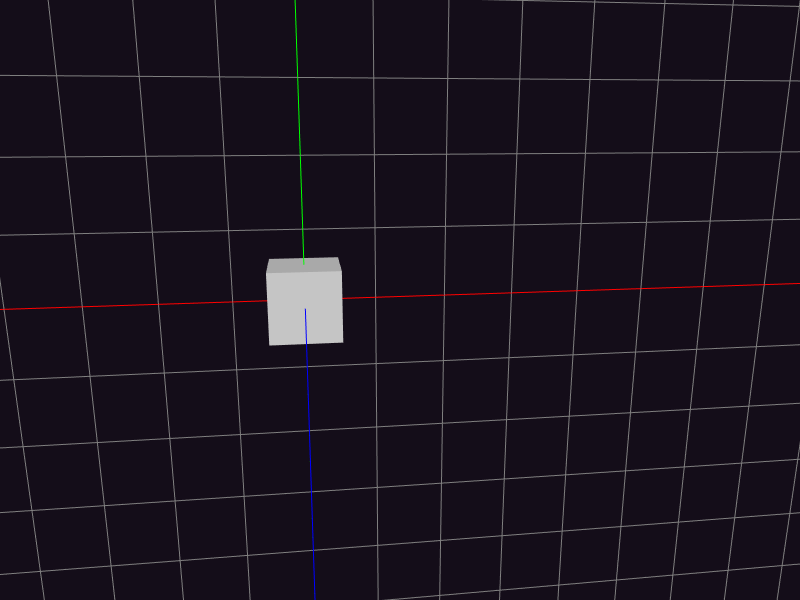
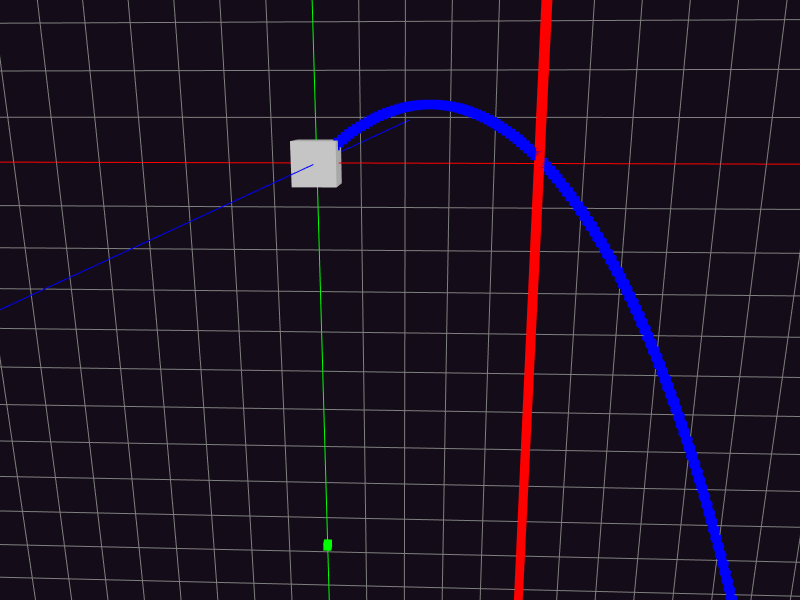
added IsParallelTo & IsPerpendicularTo to Vector2.hpp

Changed region(s): [[0.0, 0.0, 1.0, 1.0], [0.0, 0.0, 0.125, 0.06], [0.7188, 0.18, 0.75, 0.21]]

diff --git a/src/Math/Functions/Function.hpp b/src/Math/Functions/Function.hpp
@@ -2,6 +2,7 @@
 #include "DifferentiationMethod.hpp"
 #include "IntegrationMethod.hpp"
 #include "Math/Common/Comparison.hpp"
+#include "Math/Common/Exponentials.hpp"
 #include "Utilities/Logger.hpp"
 
 namespace N::M
@@ -78,45 +79,6 @@ template <typename Input, typename Output> struct Function
     }
 
     /**
-     * @brief Numerically finds the input x such that f(x) approximately equals y using binary search.
-     * @param y Function value whose corresponding input is sought.
-     * @param domainMin Lower bound of the search domain.
-     * @param domainMax Upper bound of the search domain.
-     * @return An input value whose function value approximately equals y.
-     * @note Requires a scalar-to-scalar function that is monotonic over the
-     * given domain.
-     */
-    float InverseEvaluate(float y, float domainMin, float domainMax) const
-        requires IsScalar<Input> && IsScalar<Output>
-    {
-        float x = 0.0f;
-        while (!NearlyEquals(domainMax, domainMin))
-        {
-            x = (domainMin + domainMax) / 2.0f;
-            const float value = Evaluate(x);
-            if (value < y)
-                domainMin = x;
-            else
-                domainMax = x;
-        }
-        return x;
-    }
-
-    /**
-     * @brief Creates the numerical inverse of a scalar-to-scalar function over the given domain.
-     * @param domainMin Lower bound of the function's domain.
-     * @param domainMax Upper bound of the function's domain.
-     * @return A function representing the numerical inverse.
-     * @note The function must be monotonic over the given domain.
-     */
-    Function<float, float> Inverse(float domainMin, float domainMax) const
-        requires IsScalar<Input> && IsScalar<Output>
-    {
-        return [f = *this, domainMin, domainMax](const float y) -> float
-        { return f.InverseEvaluate(y, domainMin, domainMax); };
-    }
-
-    /**
      * @brief Evaluates the numerical derivative at x.
      * @param x Input value at which to evaluate the derivative.
      * @param dx Step size used for numerical differentiation.
@@ -145,39 +107,6 @@ template <typename Input, typename Output> struct Function
         IntegrationMethod method = IntegrationMethod::Midpoint) const requires IsScalar<Input>
     {
         return Integrate(lowerBound, dx, method)(upperBound);
-    }
-
-    /**
-     * @brief Creates a Taylor polynomial approximation about the point a.
-     * @param terms Number of terms in the Taylor polynomial.
-     * @param a Point about which the polynomial is expanded.
-     * @return A function representing the Taylor polynomial approximation.
-     * @note Only available for functions with a scalar Input type.
-     */
-    Function<float, Output> Taylor(unsigned int terms, float a) const requires IsScalar<Input>
-    {
-        return [terms, a, f = *this](const float x)
-        {
-            Output result{};
-            Function currentFunc = f;
-            for (int n = 0; n < terms; ++n)
-            {
-                result += currentFunc(a) * std::pow(x - a, n) / Factorial(n);
-                currentFunc = currentFunc.Differentiate();
-            }
-            return result;
-        };
-    }
-
-    /**
-     * @brief Creates a Taylor polynomial approximation centered at zero.
-     * @param terms Number of terms in the Taylor polynomial.
-     * @return A function representing the Maclaurin polynomial approximation.
-     * @note Only available for functions with a scalar Input type.
-     */
-    Function<float, Output> Maclaurin(unsigned int terms) const requires IsScalar<Input>
-    {
-        return Taylor(terms, 0.0f);
     }
 
     /**
@@ -217,6 +146,79 @@ template <typename Input, typename Output> struct Function
             }
             return result;
         };
+    }
+
+    /**
+     * @brief Creates a Taylor polynomial approximation about the point a.
+     * @param terms Number of terms in the Taylor polynomial.
+     * @param a Point about which the polynomial is expanded.
+     * @return A function representing the Taylor polynomial approximation.
+     * @note Only available for functions with a scalar Input type.
+     */
+    Function<float, Output> Taylor(unsigned int terms, float a) const requires IsScalar<Input>
+    {
+        return [terms, a, f = *this](const float x)
+        {
+            Output result{};
+            Function currentFunc = f;
+            for (int n = 0; n < terms; ++n)
+            {
+                result += currentFunc(a) * std::pow(x - a, n) / Factorial(n);
+                currentFunc = currentFunc.Differentiate();
+            }
+            return result;
+        };
+    }
+
+    /**
+     * @brief Creates a Taylor polynomial approximation centered at zero.
+     * @param terms Number of terms in the Taylor polynomial.
+     * @return A function representing the Maclaurin polynomial approximation.
+     * @note Only available for functions with a scalar Input type.
+     */
+    Function<float, Output> Maclaurin(unsigned int terms) const requires IsScalar<Input>
+    {
+        return Taylor(terms, 0.0f);
+    }
+
+    /**
+     * @brief Numerically finds the input x such that f(x) approximately equals y using binary search.
+     * @param y Function value whose corresponding input is sought.
+     * @param domainMin Lower bound of the search domain.
+     * @param domainMax Upper bound of the search domain.
+     * @return An input value whose function value approximately equals y.
+     * @note Requires a scalar-to-scalar function that is monotonic over the
+     * given domain.
+     */
+    float InverseEvaluate(float y, float domainMin, float domainMax) const
+        requires IsScalar<Input> && IsScalar<Output>
+    {
+        float x = 0.0f;
+        //Binary search, i need a better way to calculate this. am too stupid though.
+        while (!NearlyEquals(domainMax, domainMin))
+        {
+            x = (domainMin + domainMax) / 2.0f;
+            const float value = Evaluate(x);
+            if (value < y)
+                domainMin = x;
+            else
+                domainMax = x;
+        }
+        return x;
+    }
+
+    /**
+     * @brief Creates the numerical inverse of a scalar-to-scalar function over the given domain.
+     * @param domainMin Lower bound of the function's domain.
+     * @param domainMax Upper bound of the function's domain.
+     * @return A function representing the numerical inverse.
+     * @note The function must be monotonic over the given domain.
+     */
+    Function<float, float> Inverse(float domainMin, float domainMax) const
+        requires IsScalar<Input> && IsScalar<Output>
+    {
+        return [f = *this, domainMin, domainMax](const float y) -> float
+        { return f.InverseEvaluate(y, domainMin, domainMax); };
     }
 
     /** @brief Composes this function with another function, producing f(g(x)). */

diff --git a/src/Modules/Physics/Physics.cpp b/src/Modules/Physics/Physics.cpp
@@ -4,6 +4,7 @@
 #include "Core/InnerCore/Engine.hpp"
 #include "Core/InnerCore/World.hpp"
 #include "Core/Services/ResourceManager.hpp"
+#include "Math/Color/Color.hpp"
 #include "Math/Complex/Complex.hpp"
 #include "Math/Functions/Function.hpp"
 #include "Modules/Input/Input.hpp"
@@ -77,8 +78,19 @@ void Physics::Start()
     cubeId = cube.Id;
     World::Get().Root->AttachChild(cube);
 
-    M::Function<float, float> f = [](const float t) { return t * t; };
-    U::Logger::Info(f(2));
+    float t;
+    M::Vector2 vi;
+    M::Vector2 a;
+    M::Vector2 vf;
+    M::Vector2 pi;
+    M::Vector2 pf;
+
+    //if vf.y == 0
+    vf.y = vi.y + a.y * t;
+    t = vi.y / a.y;
+
+    pf.y = pi.y + vi.y * (vi.y / a.y) - 1 / 2 * a.y * M::Pow(vi.y / a.y, 2);
+    pf.y = pi.y + (M::Pow(vi.y, 2) / 2 * a.y);
 }
 
 static float time = 0;
@@ -88,37 +100,58 @@ void Physics::FixedUpdate(double fdt)
 {
     time += fdt;
 
+    M::Vector2 a = {0, -9.8};
+    M::Vector2 vi = {5, 5};
+    M::Vector2 pi = {0, 0};
+
+    M::Function<float, M::Vector2> v = [vi, a](const auto t)
+    {
+        M::Vector2 vf = vi + a * t;
+        return vf;
+    };
+
+    M::Function<float, M::Vector2> p = v.Integrate(0);
+
+    Plot({p(time).x, p(time).y, 0}, M::Color::Blue);
+    Plot({v(time).x, v(time).y, 0}, M::Color::Red);
+    Plot({v.Derivative(time).x, v.Derivative(time).y, 0}, M::Color::Green);
+
+    if (M::NearlyEquals(v(time).Angle(), v.Derivative(time).Angle()))
+    {
+        U::Logger::Info(v(time).Angle(), " ", v.Derivative(time).Angle());
+    }
+
     auto& resourceManager = Service::Get<ResourceManager>();
     auto& input = Engine::Get().GetModule<Input>();
     auto& query = World::Get().Query;
     auto& transform = query.Pool<Transform3DComponent>().GetComponentById(cubeId);
     auto& body = query.Pool<BodyComponent>().GetComponentById(cubeId);
 
-    ExternalForces = M::Vector3{0};
-    M::Vector3 friction = {-body.Velocity.x * M::PHI, 0, -body.Velocity.z * M::PHI};
-
-    if (input.IsKeyPressed(Key::E))
-    {
-        body.Velocity = {15, 10, 0};
-    }
-
-    if (input.IsKeyHeld(Key::Up))
-        ExternalForces.y += 50;
-
-    if (input.IsKeyHeld(Key::Down))
-        ExternalForces.y -= 50;
-
-    if (input.IsKeyHeld(Key::Left))
-        ExternalForces.x -= 50;
-
-    if (input.IsKeyHeld(Key::Right))
-        ExternalForces.x += 50;
-
-    body.Force = M::Vector3{0, -9.8, 0} + ExternalForces + friction;
-
-    M::Vector3 acceleration = body.Force / body.Mass;
-    body.Velocity += acceleration * fdt;
-    transform.Position += body.Velocity * fdt;
-    transform.Position.y = std::max(transform.Position.y, 0.0f);
+    // ExternalForces = M::Vector3{0};
+    // M::Vector3 friction = {-body.Velocity.x * M::PHI, 0, -body.Velocity.z * M::PHI};
+    //
+    // if (input.IsKeyPressed(Key::E))
+    // {
+    //     body.Velocity = {15, 10, 0};
+    // }
+    //
+    // if (input.IsKeyHeld(Key::Up))
+    //     ExternalForces.y += 50;
+    //
+    // if (input.IsKeyHeld(Key::Down))
+    //     ExternalForces.y -= 50;
+    //
+    // if (input.IsKeyHeld(Key::Left))
+    //     ExternalForces.x -= 50;
+    //
+    // if (input.IsKeyHeld(Key::Right))
+    //     ExternalForces.x += 50;
+    //
+    // body.Force = M::Vector3{0, -9.8, 0} + ExternalForces + friction;
+    //
+    // M::Vector3 acceleration = body.Force / body.Mass;
+    // body.Velocity += acceleration * fdt;
+    // transform.Position += body.Velocity * fdt;
+    // transform.Position.y = std::max(transform.Position.y, 0.0f);
 }
 } // namespace N

diff --git a/src/Math/Vector/Vector2.hpp b/src/Math/Vector/Vector2.hpp
@@ -91,6 +91,22 @@ struct Vector2
      */
     [[nodiscard]] float Distance(const Vector2& vec2) const;
 
+    /**
+    * @brief Determines whether two non-zero vectors are parallel.
+    *
+    * Parallel vectors may point in the same or opposite direction.
+    *
+    * Zero vectors are never considered parallel.
+    */
+    [[nodiscard]] bool IsParallelTo(const Vector2& vec2) const;
+
+    /**
+     * @brief Determines whether two non-zero vectors are perpendicular.
+     *
+     * Zero vectors are never considered perpendicular.
+     */
+    [[nodiscard]] bool IsPerpendicularTo(const Vector2& vec2) const;
+
     /** @brief uses stereographic projection to project a 2d vector onto a 1d plane (line)
      */
     [[nodiscard]] float StereoProject() const;

diff --git a/src/Math/Vector/Vector3.cpp b/src/Math/Vector/Vector3.cpp
@@ -91,7 +91,7 @@ bool Vector3::NearlyEquals(const Vector3& vec3, const float epsilon) const
 
 bool Vector3::IsParallelTo(const Vector3& vec3) const
 {
-    if (*this == Zero || vec3 == Zero)
+    if (NearlyEquals(Zero) || vec3.NearlyEquals(Zero))
     {
         return false;
     }
@@ -101,12 +101,12 @@ bool Vector3::IsParallelTo(const Vector3& vec3) const
 
 bool Vector3::IsPerpendicularTo(const Vector3& vec3) const
 {
-    if (*this == Zero || vec3 == Zero)
+    if (NearlyEquals(Zero) || vec3.NearlyEquals(Zero))
     {
         return false;
     }
 
-    return std::abs(Dot(vec3)) < EPSILON;
+    return M::NearlyEquals(std::abs(Dot(vec3)), 0);
 }
 
 Vector3 Vector3::Lerp(const Vector3& vec3, const float t) const

diff --git a/src/Math/Vector/Vector2.cpp b/src/Math/Vector/Vector2.cpp
@@ -60,6 +60,25 @@ float Vector2::Distance(const Vector2& vec2) const
 {
     return (*this - vec2).Length();
 }
+bool Vector2::IsParallelTo(const Vector2& vec2) const
+{
+    if (NearlyEquals(Zero) || vec2.NearlyEquals(Zero))
+    {
+        return false;
+    }
+
+    return M::NearlyEquals(std::abs(Dot(vec2)), Length() * vec2.Length());
+}
+
+bool Vector2::IsPerpendicularTo(const Vector2& vec2) const
+{
+    if (NearlyEquals(Zero) || vec2.NearlyEquals(Zero))
+    {
+        return false;
+    }
+
+    return M::NearlyEquals(std::abs(Dot(vec2)), 0);
+}
 
 float Vector2::StereoProject() const
 {

diff --git a/src/Core/InnerCore/Engine.cpp b/src/Core/InnerCore/Engine.cpp
@@ -68,7 +68,7 @@ void Engine::Configure()
 {
     Window.SetIcon({"Assets/icon.png"});
     // Window.SetSize(1980, 1200);
-    glfwSwapInterval(1);
+    glfwSwapInterval(0);
     TracyGpuContext;
 
     Service::Add<ResourceManager>();
